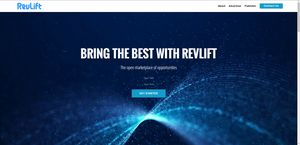
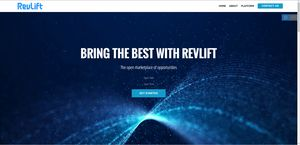
v02

diff --git a/index.html b/index.html
@@ -48,17 +48,16 @@
         </div>
         <div class="collapse navbar-collapse" id="navbarSupportedContent">
             <ul class="navbar-nav nav-dropdown" data-app-modern-menu="true"><li class="nav-item">
-                    <a class="nav-link link text-black display-4" href="index.html#features14-4">
-                        About</a>
-                </li><li class="nav-item"><a class="nav-link link text-black display-4" href="index.html#features14-4">
-                        Advertiser</a></li><li class="nav-item"><a class="nav-link link text-black display-4" href="index.html#features12-3">
-                        Publisher</a></li></ul>
-            <div class="navbar-buttons mbr-section-btn"><a class="btn btn-sm btn-primary display-4" href="tel:+1-234-567-8901">Contact Us<br></a></div>
+                    <a class="nav-link link text-black display-7" href="#top">HOME</a>
+                </li><li class="nav-item"><a class="nav-link link text-black display-7" href="index.html#features14-4">
+                        ABOUT</a></li><li class="nav-item"><a class="nav-link link text-black display-7" href="index.html#features12-3">
+                        PLATFORM</a></li></ul>
+            <div class="navbar-buttons mbr-section-btn"><a class="btn btn-sm btn-primary display-4" href="index.html#form1-l">CONTACT US<br></a></div>
         </div>
     </nav>
 </section>
 
-<section class="engine"><a href="https://mobirise.info/p">website templates free download</a></section><section class="header6 cid-reEIevDDbG mbr-fullscreen" data-bg-video="https://www.youtube.com/watch?v=QUkWbeOt-Ts" id="header6-0">
+<section class="engine"><a href="https://mobirise.info/k">develop free website</a></section><section class="header6 cid-reEIevDDbG mbr-fullscreen" data-bg-video="https://www.youtube.com/watch?v=QUkWbeOt-Ts" id="header6-0">
 
 
 
@@ -70,7 +69,7 @@
             <div class="mbr-white col-md-10">
                 <h1 class="mbr-section-title align-center mbr-bold pb-3 mbr-fonts-style display-1">BRING THE BEST WITH REVLIFT</h1>
                 <p class="mbr-text align-center pb-3 mbr-fonts-style display-5">The open marketplace of opportunities<br></p><p></p><p></p>
-                <div class="mbr-section-btn align-center"><a class="btn btn-md btn-primary display-4" href="https://mobirise.co">GET STARTED</a></div>
+                <div class="mbr-section-btn align-center"><a class="btn btn-md btn-primary display-4" href="index.html#form1-l">GET STARTED</a></div>
             </div>
         </div>
     </div>
@@ -178,8 +177,8 @@
     <div class="container">
         <div class="row justify-content-center">
             <div class="title col-12 col-lg-8">
-                <h2 class="mbr-section-title align-center pb-3 mbr-fonts-style display-2">
-                    CONTACT US</h2>
+                <h2 class="mbr-section-title align-center pb-3 mbr-fonts-style display-2"><strong>
+                    CONTACT US</strong></h2>
                 <h3 class="mbr-section-subtitle align-center mbr-light pb-3 mbr-fonts-style display-5"><strong>
                     Become our partner</strong></h3>
             </div>
@@ -190,7 +189,7 @@
             <div class="media-container-column col-lg-8" data-form-type="formoid">
                     <div data-form-alert="" hidden="">Thanks for filling out the form!</div>
 
[2 lines of base64/hex data omitted]
                         <div class="row row-sm-offset">
                             <div class="col-md-4 multi-horizontal" data-for="name">
                                 <div class="form-group">
@@ -216,9 +215,7 @@
                             <textarea type="text" class="form-control" name="message" rows="7" data-form-field="Message" id="message-form1-l"></textarea>
                         </div>
 
-                        <span class="input-group-btn">
-                            <button href="" type="submit" class="btn btn-primary btn-form display-4">SEND FORM</button>
-                        </span>
+                        <span class="input-group-btn"><button href="" type="submit" class="btn btn-primary btn-form display-4">SEND FORM</button></span>
                     </form>
             </div>
         </div>

diff --git a/assets/mobirise/css/mbr-additional.css b/assets/mobirise/css/mbr-additional.css
@@ -1778,6 +1778,12 @@ body {
   display: block;
   text-align: center;
 }
+.cid-rfuAUCVSAv B {
+  color: #333333;
+}
+.cid-rfuAUCVSAv .mbr-section-subtitle B {
+  color: #333333;
+}
 .cid-reEMF9IBab {
   padding-top: 60px;
   padding-bottom: 60px;
